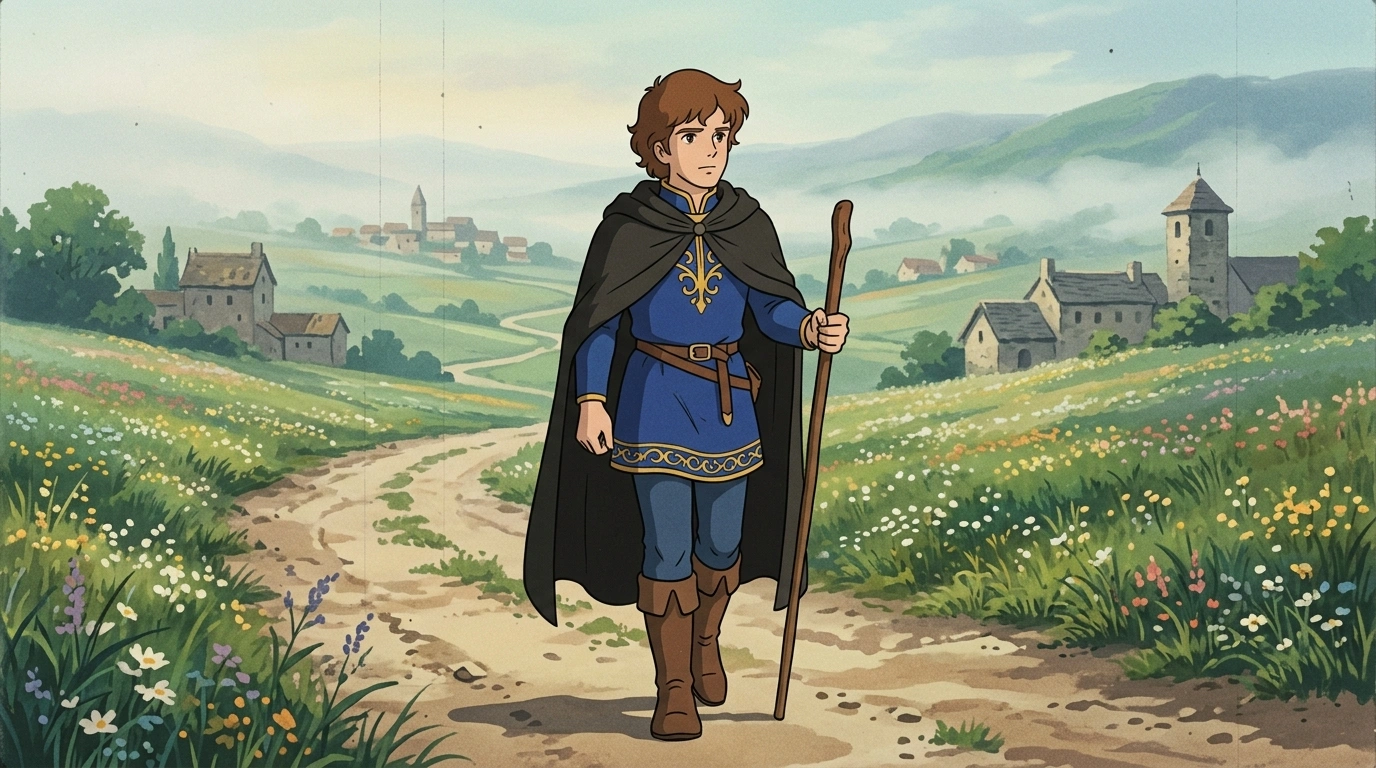
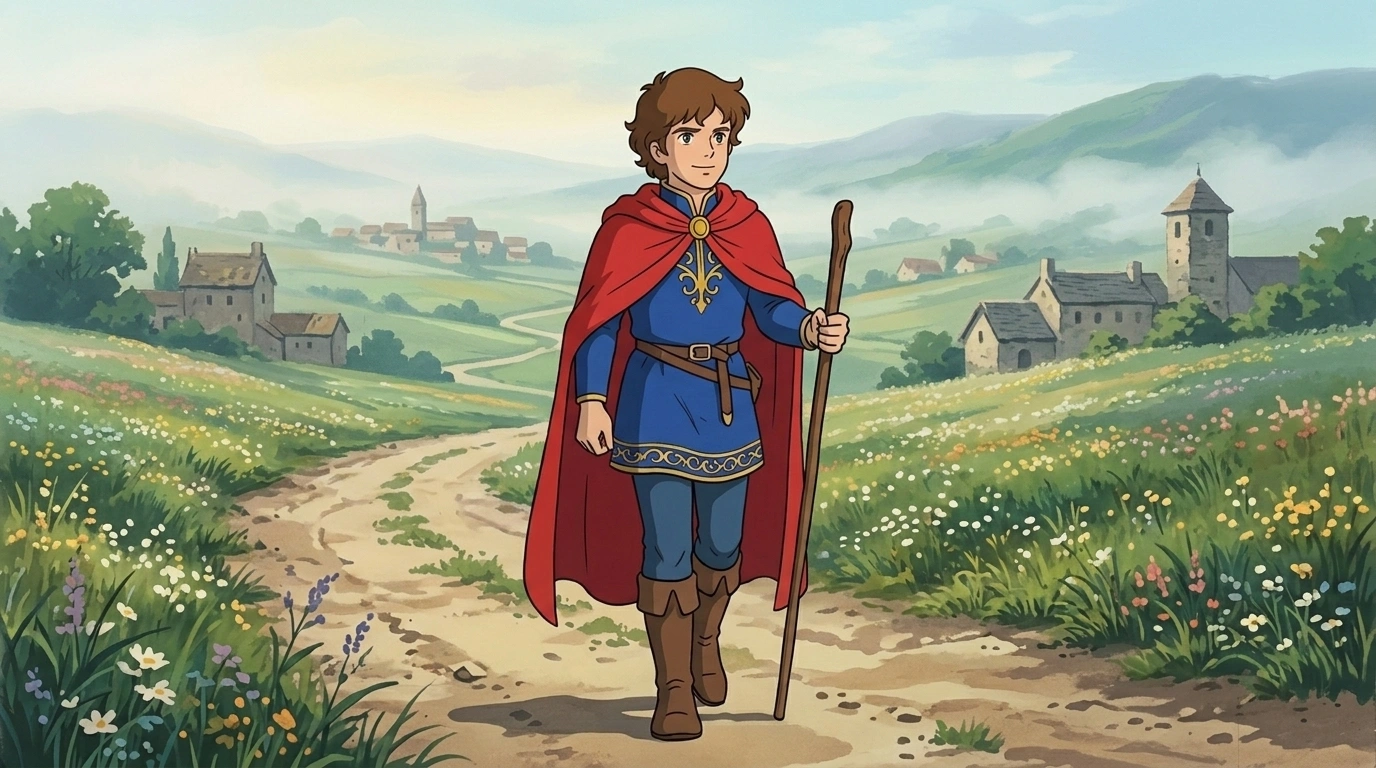
feat(rapunzel): unify 07-empty-2 with 04-prince outfit (red cape and gold-embroidered blue tunic) for wandering prince

Changed region(s): [[0.375, 0.0938, 0.5938, 0.8125]]

diff --git a/learning/literacy-numeracy/story-books/world-tales/rapunzel/app.js b/learning/literacy-numeracy/story-books/world-tales/rapunzel/app.js
@@ -278,7 +278,7 @@ const CHAPTERS = [
 function artFrame(src, emoji) {
     return `
         <div class="art-frame">
-            <img src="images/${src}?v=20261105a" alt="" onerror="this.style.display='none'; this.nextElementSibling.style.display='flex';">
+            <img src="images/${src}?v=20261105b" alt="" onerror="this.style.display='none'; this.nextElementSibling.style.display='flex';">
             <div class="art-fallback" style="display:none">${emoji}</div>
         </div>`;
 }

diff --git a/learning/literacy-numeracy/story-books/world-tales/rapunzel/index.html b/learning/literacy-numeracy/story-books/world-tales/rapunzel/index.html
@@ -38,6 +38,6 @@
 
     <script src="/assets/learning-records.js?v=20261006-book"></script>
     <script src="/assets/learning-book.js?v=20261007-scroll"></script>
-    <script src="app.js?v=20261105a"></script>
+    <script src="app.js?v=20261105b"></script>
 </body>
 </html>
